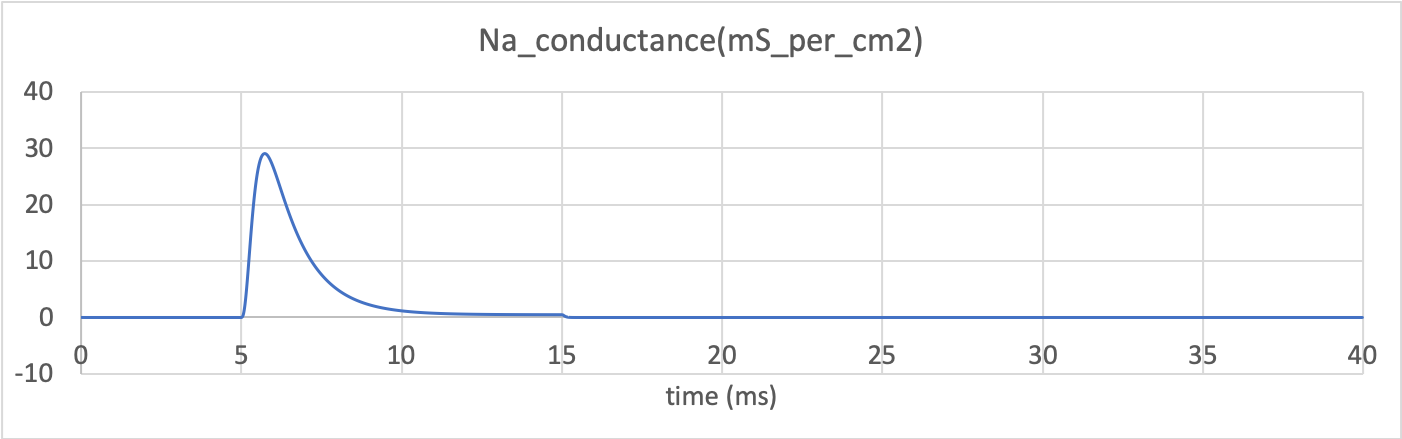
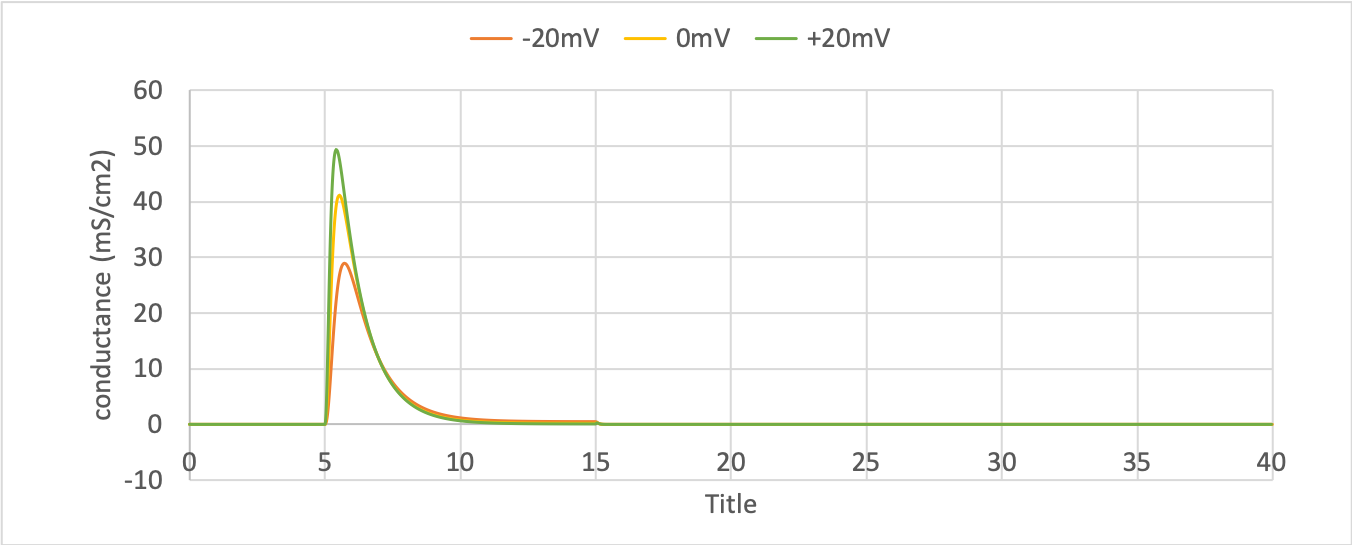
images updated for three simulations, sodium channel theory

diff --git a/docs/theory/theory_sodiumchannel.rst b/docs/theory/theory_sodiumchannel.rst
@@ -115,17 +115,23 @@ The behaviour of the sodium channel was simulated using the
 :ref:`simple solver<solver>` provided to run the code generated
 in :ref:`Tutorial 7<tutorial7>`.
 
-Three voltage
+Three voltage-step experiments were run with voltage conditions of
+(a) -85mV to -20mV, (b) -85mV to 0mV and (c) -85mV to +20mV.
+
+**TODO** do these experiments ...
+
 
 Results
 -------
-The results of the computation, with an end time of 40 and
-time interval of 0.001, are shown in :numref:`ocr_tut_kin_na_ch_vs` with
-plots :math:`V\left( t \right)`, :math:`m\left( t \right)`,
-:math:`h\left( t \right)`, :math:`g_{Na}\left( t \right)` and
-:math:`i_{Na}(t)` for voltage steps from (a) -85mV to -20mV,
-(b) -85mV to 0mV and (c) -85mV to 20mV. There are several
-things to note:
+The results of the computation, with an end time of 40ms, and Euler step of
+0.001ms are shown in
+
+
+
+
+
+
+
 
 i.   The kinetics of the :math:`m`-gate are much faster than the
      :math:`h`-gate.
@@ -153,16 +159,8 @@ iv.  The only time current :math:`i_{Na}` flows through the
 v.   The large sodium current :math:`i_{Na}` is an inward current
      and hence negative.
 
-Note that the bottom trace does not quite line up at t=0 because the
-values shown on the axes are computed automatically and hence can take
-more or less space depending on their magnitude.
 
-.. figure:: images/kinetics_na_ch_voltages.png
-   :name: ocr_tut_kin_na_ch_vs
-   :alt: Kinetics of the sodium channel gates for voltage steps to (a) -20mV, (b) 0mV, and (c) 20mV.
-   :align: left
 
-   Kinetics of the sodium channel gates for voltage steps to (a) -20mV, (b) 0mV, and (c) 20mV.
 
 
 Next steps
@@ -180,9 +178,9 @@ channel<theory__potassiumchannel>` as well as a leakage current model.
 
 .. [#] The Hodgkin-Huxley paper used: **TODO**
 
-    .. code::
+    .. math::
 
-       \alpha_m = \frac{0.1(v+25)}{\exp\left({0.1(v+25)\right)-1}
-       \beta_m = 4\exp\left({\frac{v}{18}\right)
-       \alpha_h = 0.07e^{\frac{v}{20}}
-       \beta_h = \frac{1}{\exp\left(0.1(v+30)\right)+1}
+       \alpha_m = \frac{0.1(V+25)}{\exp\left({0.1(V+25)\right)-1} \\
+       \beta_m = 4\exp\left({\frac{V}{18}\right) \\
+       \alpha_h = 0.07e^{\frac{V}{20}} \\
+       \beta_h = \frac{1}{\exp\left(0.1(V+30)\right)+1} \\
